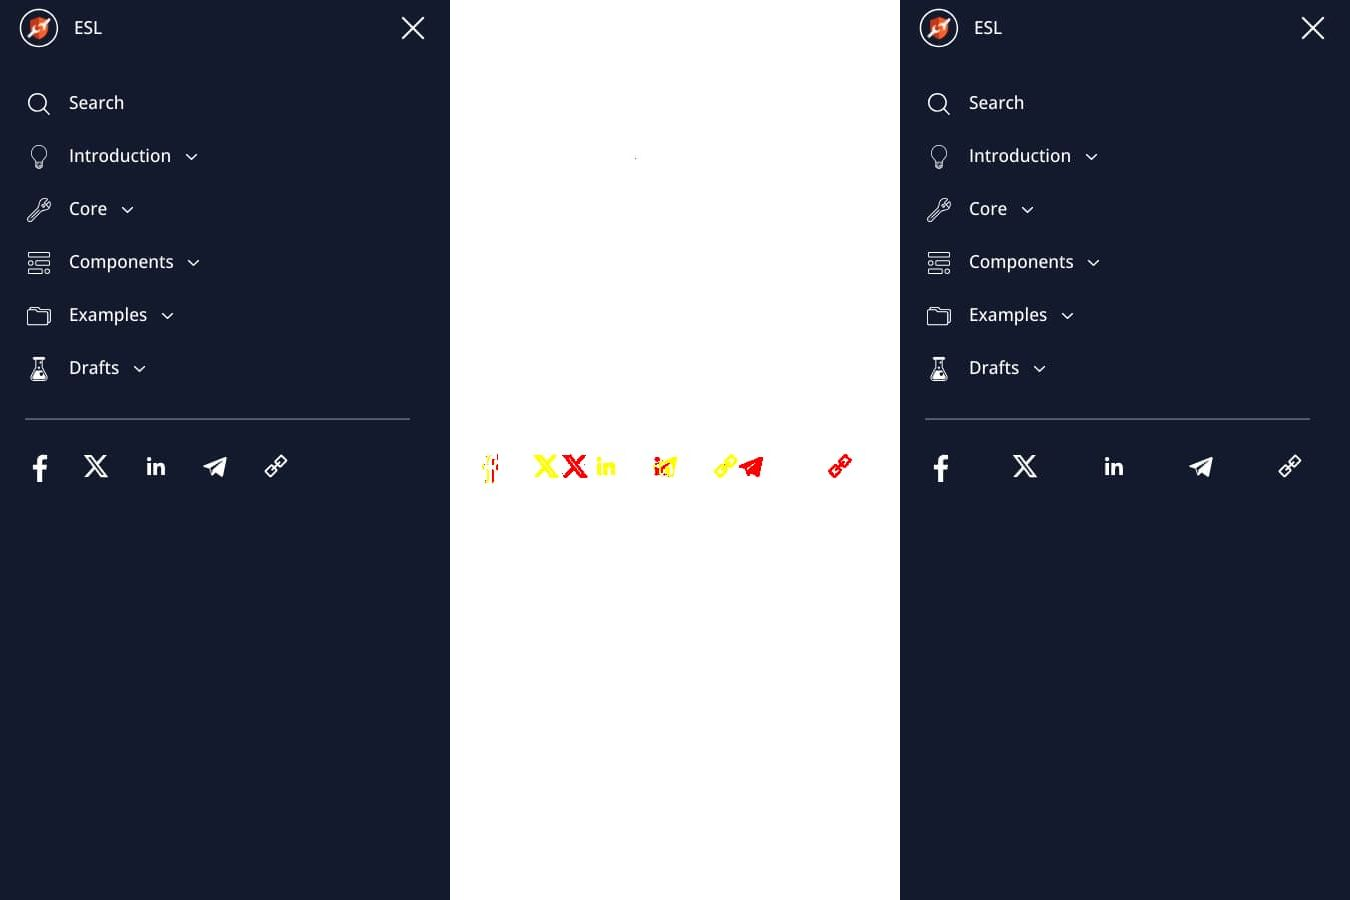
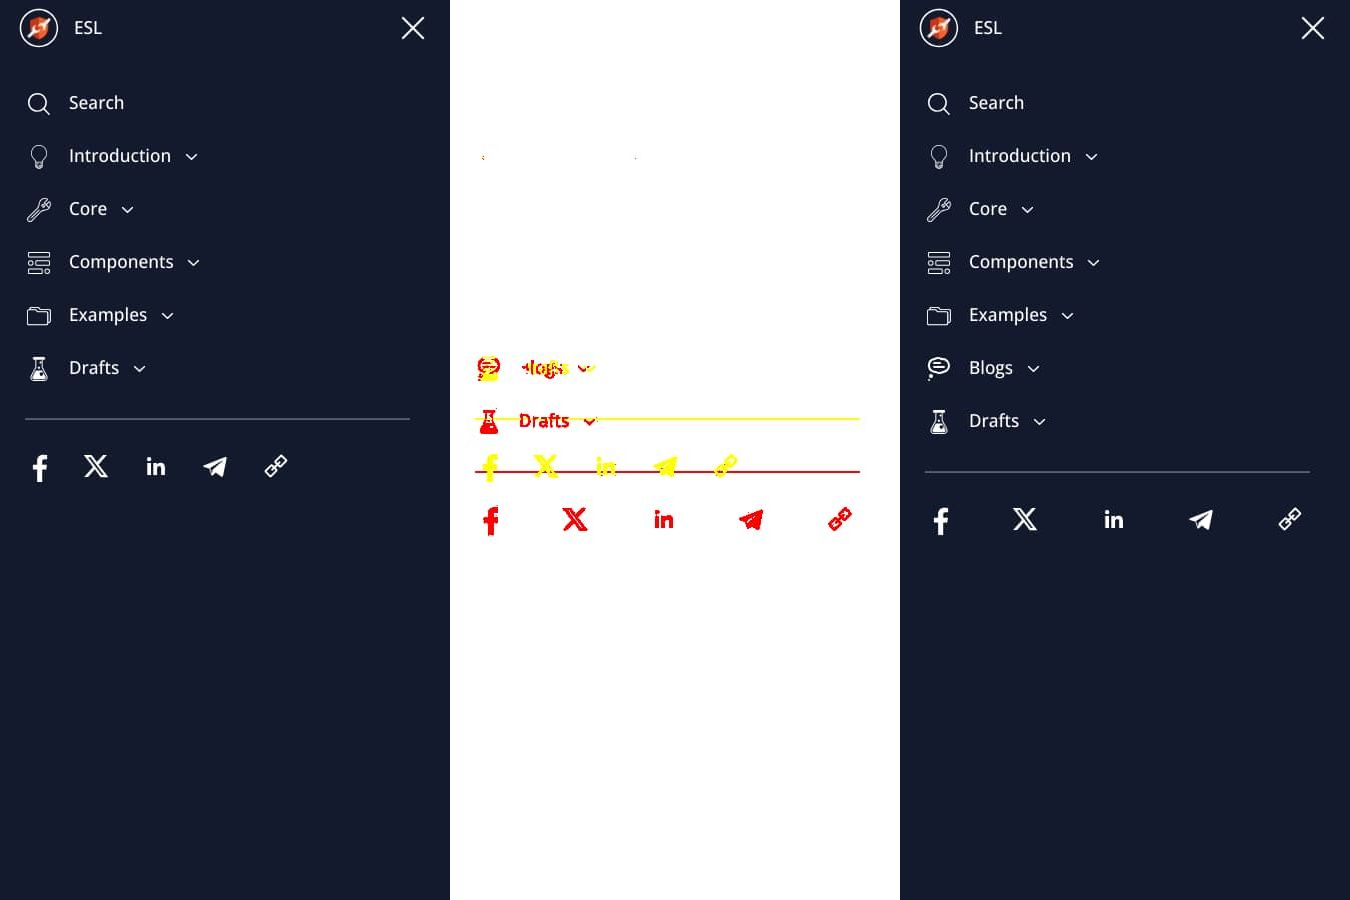
deploy: ac24e92739962be53e6e8aedb1a2ac6713f0e89d

diff --git a/index.md b/index.md
@@ -3,12 +3,12 @@
   
 | :clock10: Start time | :hourglass: Duration |
 | --- | ---: |
-|10/31/2024, 12:58:11 AM|18.91s|
+|11/5/2024, 9:31:47 AM|20.00s|
 
 | | :white_check_mark: Passed | :x: Failed | :construction: Todo | :white_circle: Total |
 | --- | ---: | ---: | ---:| ---: |
 |Test Suites|2|1|-|3|
-|Tests|7|1|0|8|
+|Tests|4|4|0|8|
 
 
 
@@ -17,24 +17,44 @@
   ### tests/homepage.copyright.test.ts
 <table>
 <tr><th>Test</th><th>Status</th><th>Time</th></tr>
-<tr><td>Homepage footer manual validation: Check if the footer copyright contains correct version</td><td>:white_check_mark:</td><td>37ms</td></tr>
+<tr><td>Homepage footer manual validation: Check if the footer copyright contains correct version</td><td>:white_check_mark:</td><td>55ms</td></tr>
 <tr><td>Homepage footer manual validation: Check if the footer coypright contains correct year</td><td>:white_check_mark:</td><td>4ms</td></tr>
 </table>
 
 ### tests/test.feature
 <table>
 <tr><th>Test</th><th>Status</th><th>Time</th></tr>
-<tr><td>Feature: Test page looks fine: test page screen</td><td>:white_check_mark:</td><td>2.575s</td></tr>
+<tr><td>Feature: Test page looks fine: test page screen</td><td>:white_check_mark:</td><td>2.571s</td></tr>
 </table>
 
 ### tests/homepage.feature
 <table>
 <tr><th>Test</th><th>Status</th><th>Time</th></tr>
-<tr><td>Feature: Homepage looks fine: test homepage screen</td><td>:white_check_mark:</td><td>2.955s</td></tr>
-<tr><td>Feature: Homepage looks fine: test homepage screen on mobile</td><td>:white_check_mark:</td><td>2.785s</td></tr>
-<tr><td>Feature: Homepage looks fine: test homepage hamburger menu on mobile</td><td>:x:</td><td>3.449s</td></tr>
-<tr><td colspan="3"><img src="https://github.com/exadel-inc/esl/blob/diff-report/homepage.feature/feature-homepage-looks-fine-test-homepage-hamburger-menu-on-mobile-diff.jpg?raw=true" alt="Test Diff feature-homepage-looks-fine-test-homepage-hamburger-menu-on-mobile-diff.jpg"/></td></tr><tr><td>Feature: Homepage looks fine: test homepage footer on desktop</td><td>:white_check_mark:</td><td>2.409s</td></tr>
-<tr><td>Feature: Homepage looks fine: test homepage footer on mobile</td><td>:white_check_mark:</td><td>2.236s</td></tr>
+<tr><td>Feature: Homepage looks fine: test homepage screen</td><td>:white_check_mark:</td><td>3.473s</td></tr>
+<tr><td>Feature: Homepage looks fine: test homepage screen on mobile</td><td>:x:</td><td>3.007s</td></tr>
+<tr><td colspan="3"><img src="https://github.com/exadel-inc/esl/blob/diff-report/homepage.feature/feature-homepage-looks-fine-test-homepage-screen-on-mobile-diff.jpg?raw=true" alt="Test Diff feature-homepage-looks-fine-test-homepage-screen-on-mobile-diff.jpg"/></td></tr><tr><td>Feature: Homepage looks fine: test homepage hamburger menu on mobile</td><td>:x:</td><td>3.471s</td></tr>
+<tr><td colspan="3"><img src="https://github.com/exadel-inc/esl/blob/diff-report/homepage.feature/feature-homepage-looks-fine-test-homepage-hamburger-menu-on-mobile-diff.jpg?raw=true" alt="Test Diff feature-homepage-looks-fine-test-homepage-hamburger-menu-on-mobile-diff.jpg"/></td></tr><tr><td>Feature: Homepage looks fine: test homepage footer on desktop</td><td>:x:</td><td>2.926s</td></tr>
+<tr><td colspan="3"><img src="https://github.com/exadel-inc/esl/blob/diff-report/homepage.feature/feature-homepage-looks-fine-test-homepage-footer-on-desktop-diff.jpg?raw=true" alt="Test Diff feature-homepage-looks-fine-test-homepage-footer-on-desktop-diff.jpg"/></td></tr><tr><td>Feature: Homepage looks fine: test homepage footer on mobile</td><td>:x:</td><td>2.203s</td></tr>
+<tr><td colspan="3">
+```text
+Error: Error comparing snapshot to image /home/runner/work/esl/esl/e2e/tests/__image_snapshots__/homepage.feature/feature-homepage-looks-fine-test-homepage-footer-on-mobile.jpg
+    at /home/runner/work/esl/esl/e2e/setup/scenarios.screenshot.ts:36:23
+    at Generator.next (<anonymous>)
+    at /home/runner/work/esl/esl/e2e/setup/scenarios.screenshot.ts:8:71
+    at new Promise (<anonymous>)
+    at Object.<anonymous>.__awaiter (/home/runner/work/esl/esl/e2e/setup/scenarios.screenshot.ts:4:12)
+    at /home/runner/work/esl/esl/e2e/setup/scenarios.screenshot.ts:33:117
+    at Cucumber.convertHandler (/home/runner/work/esl/esl/node_modules/stucumber/src/cucumber.ts:183:11)
+    at Cucumber.<anonymous> (/home/runner/work/esl/esl/node_modules/stucumber/src/cucumber.ts:214:30)
+    at Generator.next (<anonymous>)
+    at /home/runner/work/esl/esl/node_modules/stucumber/dist/cucumber.js:7:71
+    at new Promise (<anonymous>)
+    at Object.<anonymous>.__awaiter (/home/runner/work/esl/esl/node_modules/stucumber/dist/cucumber.js:3:12)
+    at Cucumber.rule (/home/runner/work/esl/esl/node_modules/stucumber/dist/cucumber.js:102:16)
+    at /home/runner/work/esl/esl/e2e/tests/homepage.feature:42:10
+    at processTicksAndRejections (node:internal/process/task_queues:95:5)
+```
+</td></tr>
 </table>
 
 

diff --git a/README.md b/README.md
@@ -3,12 +3,12 @@
   
 | :clock10: Start time | :hourglass: Duration |
 | --- | ---: |
-|10/31/2024, 12:58:11 AM|18.91s|
+|11/5/2024, 9:31:47 AM|20.00s|
 
 | | :white_check_mark: Passed | :x: Failed | :construction: Todo | :white_circle: Total |
 | --- | ---: | ---: | ---:| ---: |
 |Test Suites|2|1|-|3|
-|Tests|7|1|0|8|
+|Tests|4|4|0|8|
 
 
 
@@ -17,24 +17,44 @@
   ### tests/homepage.copyright.test.ts
 <table>
 <tr><th>Test</th><th>Status</th><th>Time</th></tr>
-<tr><td>Homepage footer manual validation: Check if the footer copyright contains correct version</td><td>:white_check_mark:</td><td>37ms</td></tr>
+<tr><td>Homepage footer manual validation: Check if the footer copyright contains correct version</td><td>:white_check_mark:</td><td>55ms</td></tr>
 <tr><td>Homepage footer manual validation: Check if the footer coypright contains correct year</td><td>:white_check_mark:</td><td>4ms</td></tr>
 </table>
 
 ### tests/test.feature
 <table>
 <tr><th>Test</th><th>Status</th><th>Time</th></tr>
-<tr><td>Feature: Test page looks fine: test page screen</td><td>:white_check_mark:</td><td>2.575s</td></tr>
+<tr><td>Feature: Test page looks fine: test page screen</td><td>:white_check_mark:</td><td>2.571s</td></tr>
 </table>
 
 ### tests/homepage.feature
 <table>
 <tr><th>Test</th><th>Status</th><th>Time</th></tr>
-<tr><td>Feature: Homepage looks fine: test homepage screen</td><td>:white_check_mark:</td><td>2.955s</td></tr>
-<tr><td>Feature: Homepage looks fine: test homepage screen on mobile</td><td>:white_check_mark:</td><td>2.785s</td></tr>
-<tr><td>Feature: Homepage looks fine: test homepage hamburger menu on mobile</td><td>:x:</td><td>3.449s</td></tr>
-<tr><td colspan="3"><img src="homepage.feature/feature-homepage-looks-fine-test-homepage-hamburger-menu-on-mobile-diff.jpg" alt="Test Diff feature-homepage-looks-fine-test-homepage-hamburger-menu-on-mobile-diff.jpg"/></td></tr><tr><td>Feature: Homepage looks fine: test homepage footer on desktop</td><td>:white_check_mark:</td><td>2.409s</td></tr>
-<tr><td>Feature: Homepage looks fine: test homepage footer on mobile</td><td>:white_check_mark:</td><td>2.236s</td></tr>
+<tr><td>Feature: Homepage looks fine: test homepage screen</td><td>:white_check_mark:</td><td>3.473s</td></tr>
+<tr><td>Feature: Homepage looks fine: test homepage screen on mobile</td><td>:x:</td><td>3.007s</td></tr>
+<tr><td colspan="3"><img src="homepage.feature/feature-homepage-looks-fine-test-homepage-screen-on-mobile-diff.jpg" alt="Test Diff feature-homepage-looks-fine-test-homepage-screen-on-mobile-diff.jpg"/></td></tr><tr><td>Feature: Homepage looks fine: test homepage hamburger menu on mobile</td><td>:x:</td><td>3.471s</td></tr>
+<tr><td colspan="3"><img src="homepage.feature/feature-homepage-looks-fine-test-homepage-hamburger-menu-on-mobile-diff.jpg" alt="Test Diff feature-homepage-looks-fine-test-homepage-hamburger-menu-on-mobile-diff.jpg"/></td></tr><tr><td>Feature: Homepage looks fine: test homepage footer on desktop</td><td>:x:</td><td>2.926s</td></tr>
+<tr><td colspan="3"><img src="homepage.feature/feature-homepage-looks-fine-test-homepage-footer-on-desktop-diff.jpg" alt="Test Diff feature-homepage-looks-fine-test-homepage-footer-on-desktop-diff.jpg"/></td></tr><tr><td>Feature: Homepage looks fine: test homepage footer on mobile</td><td>:x:</td><td>2.203s</td></tr>
+<tr><td colspan="3">
+```text
+Error: Error comparing snapshot to image /home/runner/work/esl/esl/e2e/tests/__image_snapshots__/homepage.feature/feature-homepage-looks-fine-test-homepage-footer-on-mobile.jpg
+    at /home/runner/work/esl/esl/e2e/setup/scenarios.screenshot.ts:36:23
+    at Generator.next (<anonymous>)
+    at /home/runner/work/esl/esl/e2e/setup/scenarios.screenshot.ts:8:71
+    at new Promise (<anonymous>)
+    at Object.<anonymous>.__awaiter (/home/runner/work/esl/esl/e2e/setup/scenarios.screenshot.ts:4:12)
+    at /home/runner/work/esl/esl/e2e/setup/scenarios.screenshot.ts:33:117
+    at Cucumber.convertHandler (/home/runner/work/esl/esl/node_modules/stucumber/src/cucumber.ts:183:11)
+    at Cucumber.<anonymous> (/home/runner/work/esl/esl/node_modules/stucumber/src/cucumber.ts:214:30)
+    at Generator.next (<anonymous>)
+    at /home/runner/work/esl/esl/node_modules/stucumber/dist/cucumber.js:7:71
+    at new Promise (<anonymous>)
+    at Object.<anonymous>.__awaiter (/home/runner/work/esl/esl/node_modules/stucumber/dist/cucumber.js:3:12)
+    at Cucumber.rule (/home/runner/work/esl/esl/node_modules/stucumber/dist/cucumber.js:102:16)
+    at /home/runner/work/esl/esl/e2e/tests/homepage.feature:42:10
+    at processTicksAndRejections (node:internal/process/task_queues:95:5)
+```
+</td></tr>
 </table>
 
 
